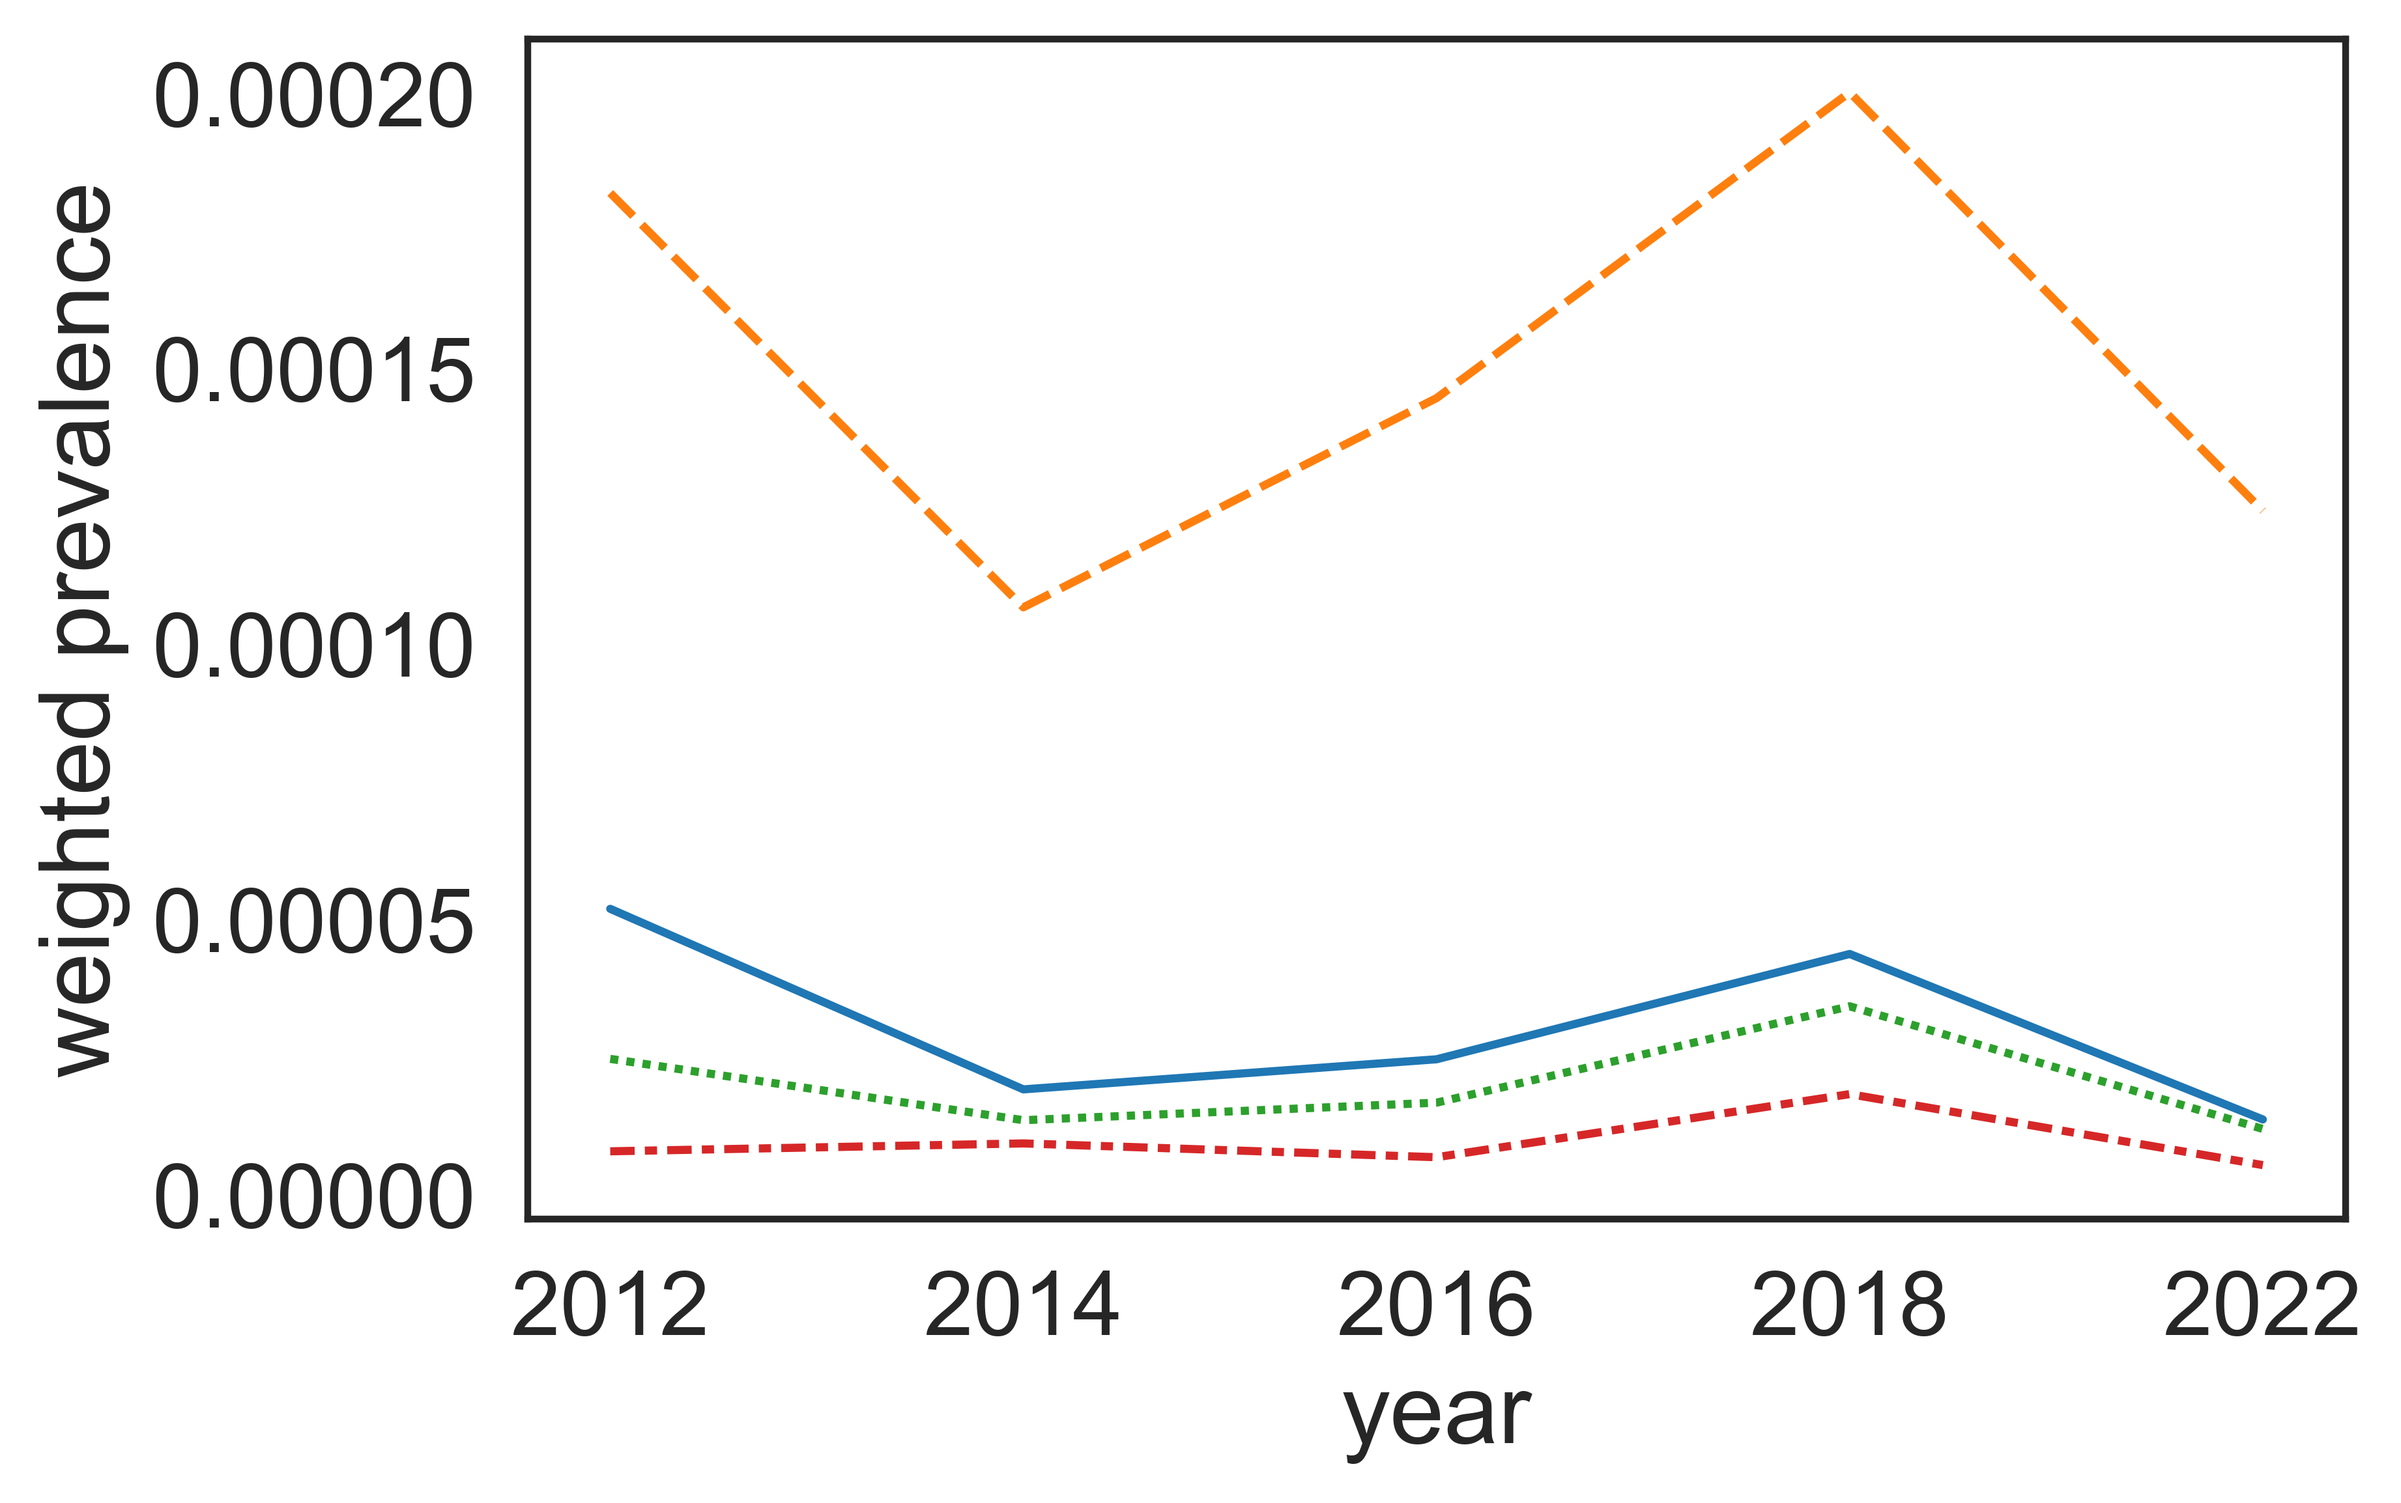
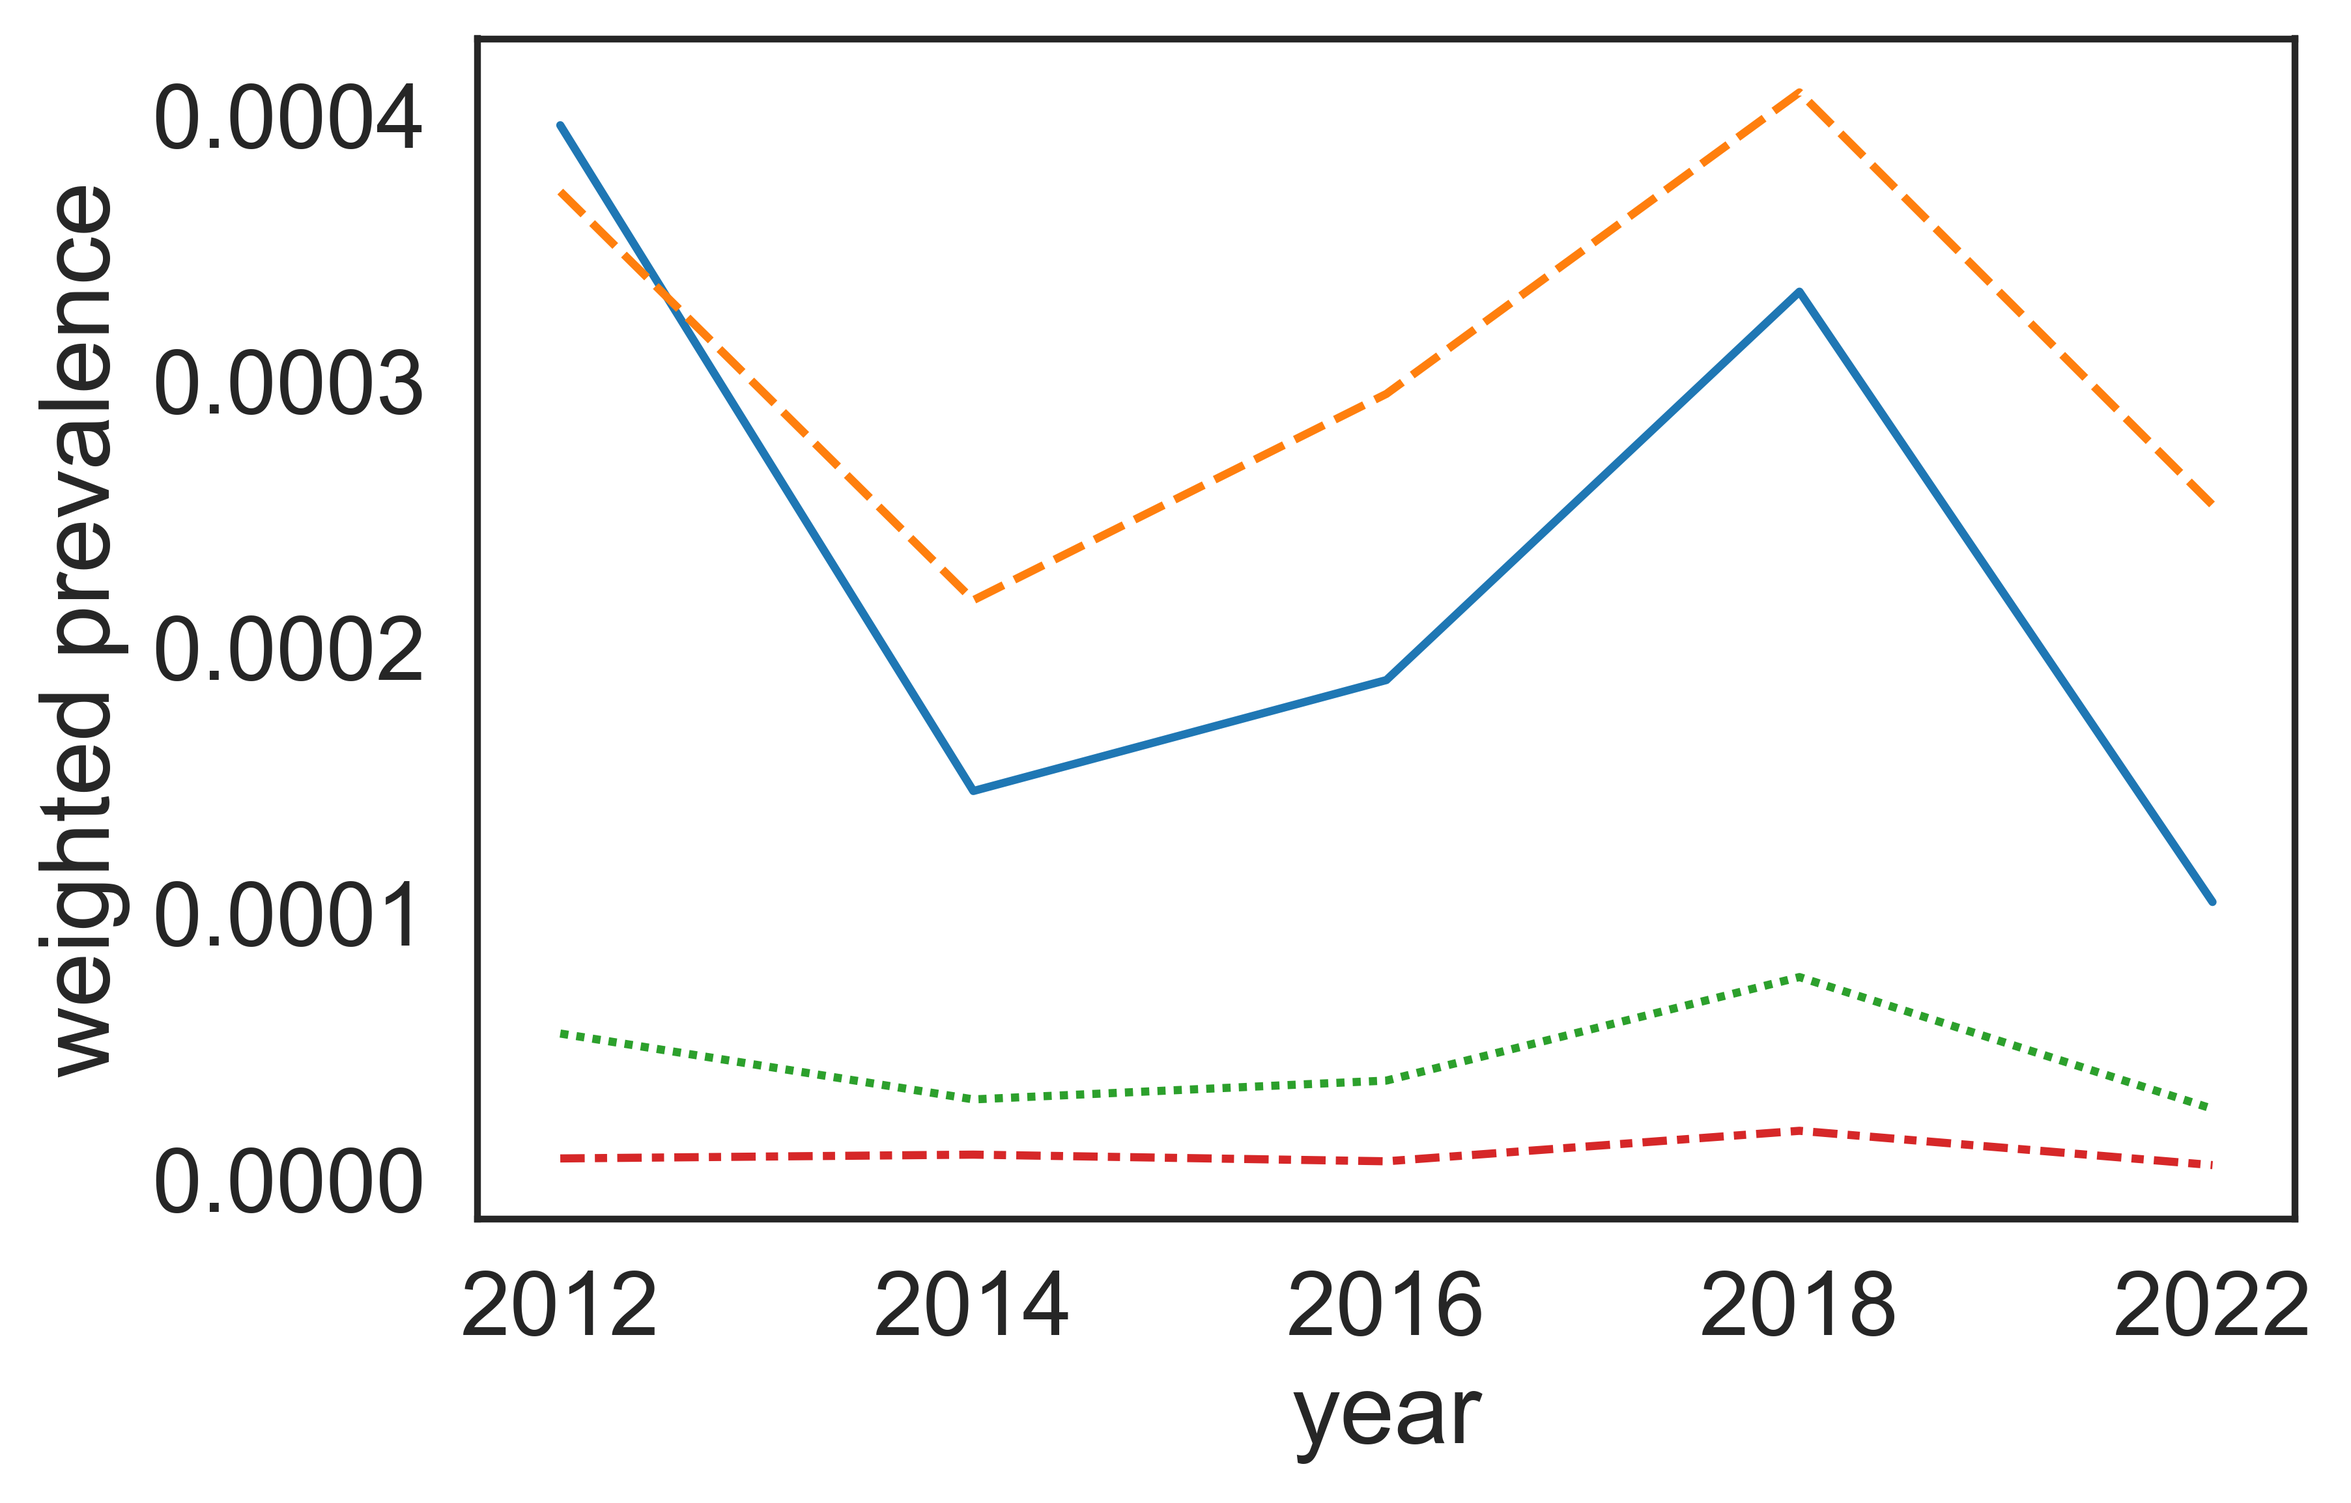
updated weighted measure

diff --git a/code/multilexicon_analysis_revised.py b/code/multilexicon_analysis_revised.py
@@ -31,6 +31,7 @@ overlap = pd.DataFrame(columns=lexicons)
 overlap_new = pd.DataFrame(columns=lexicons)
 overlap_weighted = pd.DataFrame(columns=lexicons)
 overlap_weighted_new = pd.DataFrame(columns=lexicons)
+overlap_weighted_gpt = pd.DataFrame(columns=lexicons)
 
 ''' PARSE AND COMPARE'''
 if plot_wordlcouds:
@@ -47,6 +48,7 @@ for idx,sepex_year in enumerate(sepex_editions):
     
     # Loop through lexicons
     all_lexicons = ("cognitive-atlas_disorders", "cognitive-atlas_concepts", "cognitive-atlas_tasks", "NIF-GrossAnatomy_edited")
+    
     for lex_ind, lex_name in (enumerate(all_lexicons)):
         
         # SEARCH IN COGNITIVE ATLAS sub-LEXICONS
@@ -59,22 +61,29 @@ for idx,sepex_year in enumerate(sepex_editions):
         abstract_concepts = list(dict.fromkeys(abstract_concepts)) # remove duplicates
 
         cogat_overlap_new = len(cogat_prevalence_any) / len(abstract_concepts) # reviewer: proportion of SEPEX terms present in lexicon
-        print("Overlap between " + lex_name + " and SEPEX" + str(sepex_year) + ": " )
-        print("New computation: " + str(cogat_overlap_new))
-        print("Old computation: " + str(cogat_overlap))
+        
         overlap.loc[idx,lexicons[lex_ind]] = cogat_overlap
         overlap_new.loc[idx,lexicons[lex_ind]] = cogat_overlap_new
         lexicons_length.append(len(cogat_prevalence))
+        
+        # normalize by corpus size  
+        overlap_weighted.loc[idx,lexicons[lex_ind]] = overlap.iloc[idx,lex_ind] / lexicons_length[lex_ind]
+        # overlap_weighted.loc[idx,:] = overlap.loc[idx,:] / sum(lexicons_length)
+        overlap_weighted_new.loc[idx,lexicons[lex_ind]] = overlap_new.iloc[idx,lex_ind] / lexicons_length[lex_ind]
+        # overlap_weighted_new.loc[idx,:] = overlap_new.loc[idx,:] / sum(lexicons_length)
+       
+        # new weighted prevalence
+        overlap_weighted_gpt.loc[idx,lexicons[lex_ind]] = overlap.iloc[idx,lex_ind] / len(abstract_concepts) * (1 / np.sqrt(lexicons_length[lex_ind]))
+        
         if plot_wordlcouds:
             cnt += 1
             plt.subplot(5, 4, cnt)
             draw_wordclod(cogat_prevalence_any, 'sepex' + str(sepex_year) + lex_name + '_cloud')
     
-    # normalize by corpus size  
-    overlap_weighted.loc[idx,:] = overlap.loc[idx,:] / lexicons_length[lex_ind]
-    # overlap_weighted.loc[idx,:] = overlap.loc[idx,:] / sum(lexicons_length)
-    overlap_weighted_new.loc[idx,:] = overlap_new.loc[idx,:] / lexicons_length[lex_ind]
-    # overlap_weighted_new.loc[idx,:] = overlap_new.loc[idx,:] / sum(lexicons_length)
+        
+    print("weighted index: " + str(overlap_weighted))
+    print("reviewer's weighted index': " + str(overlap_weighted_new))
+    print("chat gpt's weighted index': " + str(overlap_weighted_gpt))
     
 
 if plot_wordlcouds:
@@ -135,6 +144,16 @@ g.despine(right=True)
 g.set_axis_labels("", "Reviewer weighting prevalence across editions")
 g.figure.savefig(fig_folder + '/reviewer_w_prevalence_across_editions.png',dpi=600,bbox_inches="tight")
 
+''' PLOT chat-GPT's WEIGHTED RESULTS'''
+# average across editions
+g = plt.figure()
+sns.set_style("white")
+sns.set_context("poster",font_scale=0.75,rc={"figure.figsize":(20, 20)})
+g = sns.catplot(data=overlap_weighted_gpt,kind="bar")
+g.despine(right=True)
+g.set_axis_labels("", "weighted prevalence across editions")
+g.figure.savefig(fig_folder + '/new_w_prevalence_across_editions.png',dpi=600,bbox_inches="tight")
+
 ''' PLOT WEIGHTED RESULTS and do ANOVA'''
 # average across editions
 g = plt.figure()
@@ -146,7 +165,7 @@ g.set_axis_labels("", "weighted prevalence across editions")
 g.figure.savefig(fig_folder + '/w_prevalence_across_editions.png',dpi=600,bbox_inches="tight")
 
 # transform to long for stats purposes
-overlap_weighted_wide = overlap_weighted.copy()
+overlap_weighted_wide = overlap_weighted_gpt.copy()
 overlap_weighted_wide["year"] = [2012, 2014, 2016, 2018, 2022]
 overlap_weighted_wide = overlap_weighted_wide.apply(pd.to_numeric)
 
@@ -181,6 +200,19 @@ g.set_xlabel("year")
 g.get_legend().remove()
 g.figure.savefig(fig_folder + '/w_prevalence.png',dpi=600,bbox_inches="tight")
 
+''' PLOT NEW WEIGHTED RESULTS '''
+g = plt.figure()
+sns.set_style("white")
+sns.set_context("notebook",font_scale=1.5,rc={"figure.figsize":(20, 20)})
+g = sns.lineplot(data=overlap_weighted_gpt)
+g.set_xticks(range(len(sepex_editions))) # <--- set the ticks first
+g.set_xticklabels(sepex_editions)
+g.set_ylabel("weighted prevalence")
+g.set_xlabel("year")
+g.get_legend().remove()
+g.figure.savefig(fig_folder + '/new_w_prevalence.png',dpi=600,bbox_inches="tight")
+
+
 
 ''' PLOT RELATIVE RESULTS'''
 # convert to percentage
@@ -205,3 +237,27 @@ legend = ax.get_legend()
 legend.set_bbox_to_anchor((1, 1))
 ax.set_ylabel(" relative prevalence (%)")
 ax.figure.savefig(fig_folder + '/w_prevalence_stacked.png',dpi=600,bbox_inches="tight")
+
+''' PLOT NEW RELATIVE RESULTS'''
+# convert to percentage
+labels = ['disorders', 'concepts', 'tasks', 'anatomy']
+overlap_percentage = overlap_weighted_gpt.copy()
+overlap_percentage[labels] = overlap_percentage[labels].div(overlap_percentage[labels].sum(axis=1), axis=0).multiply(100)
+overlap_percentage['year']= ['2012','2014','2016','2018','2022'] # add year column
+# transform to long format
+overlap_percentage_long = pd.melt(overlap_percentage,
+                                  id_vars=['year'],
+                                  value_vars=labels,
+                                  var_name='lexicon',
+                                  value_name='percentage')
+
+# plot stacked bar plot
+g = plt.figure()
+sns.set_style("white")
+sns.set_context("notebook",font_scale=1.5,rc={"figure.figsize":(20, 20)})
+ax = sns.histplot(overlap_percentage_long,
+                  x='year', hue='lexicon', weights='percentage', multiple='stack', shrink=0.8)
+legend = ax.get_legend()
+legend.set_bbox_to_anchor((1, 1))
+ax.set_ylabel(" relative prevalence (%)")
+ax.figure.savefig(fig_folder + '/new_w_prevalence_stacked.png',dpi=600,bbox_inches="tight")
